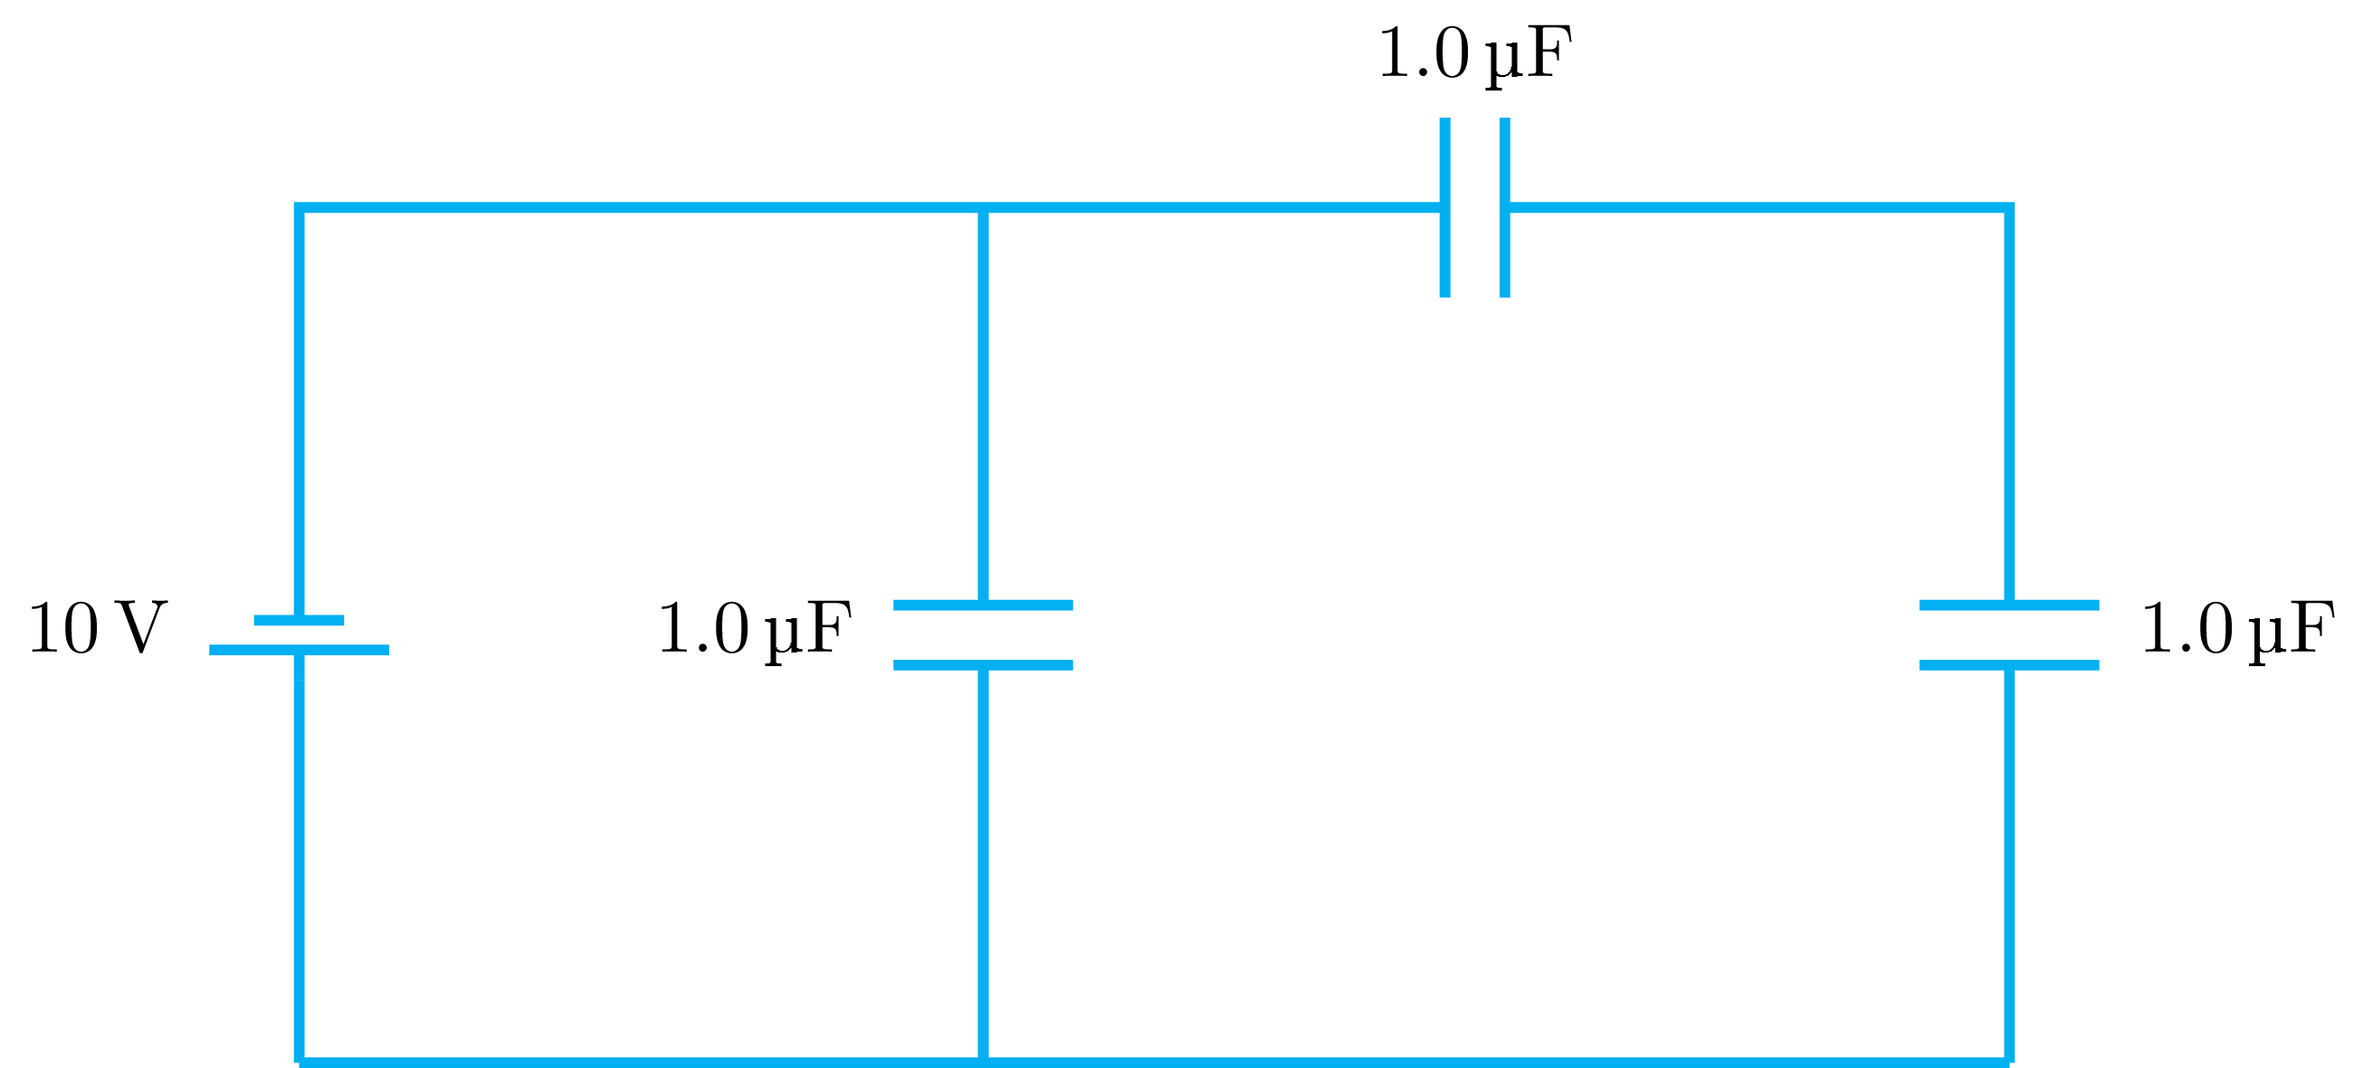
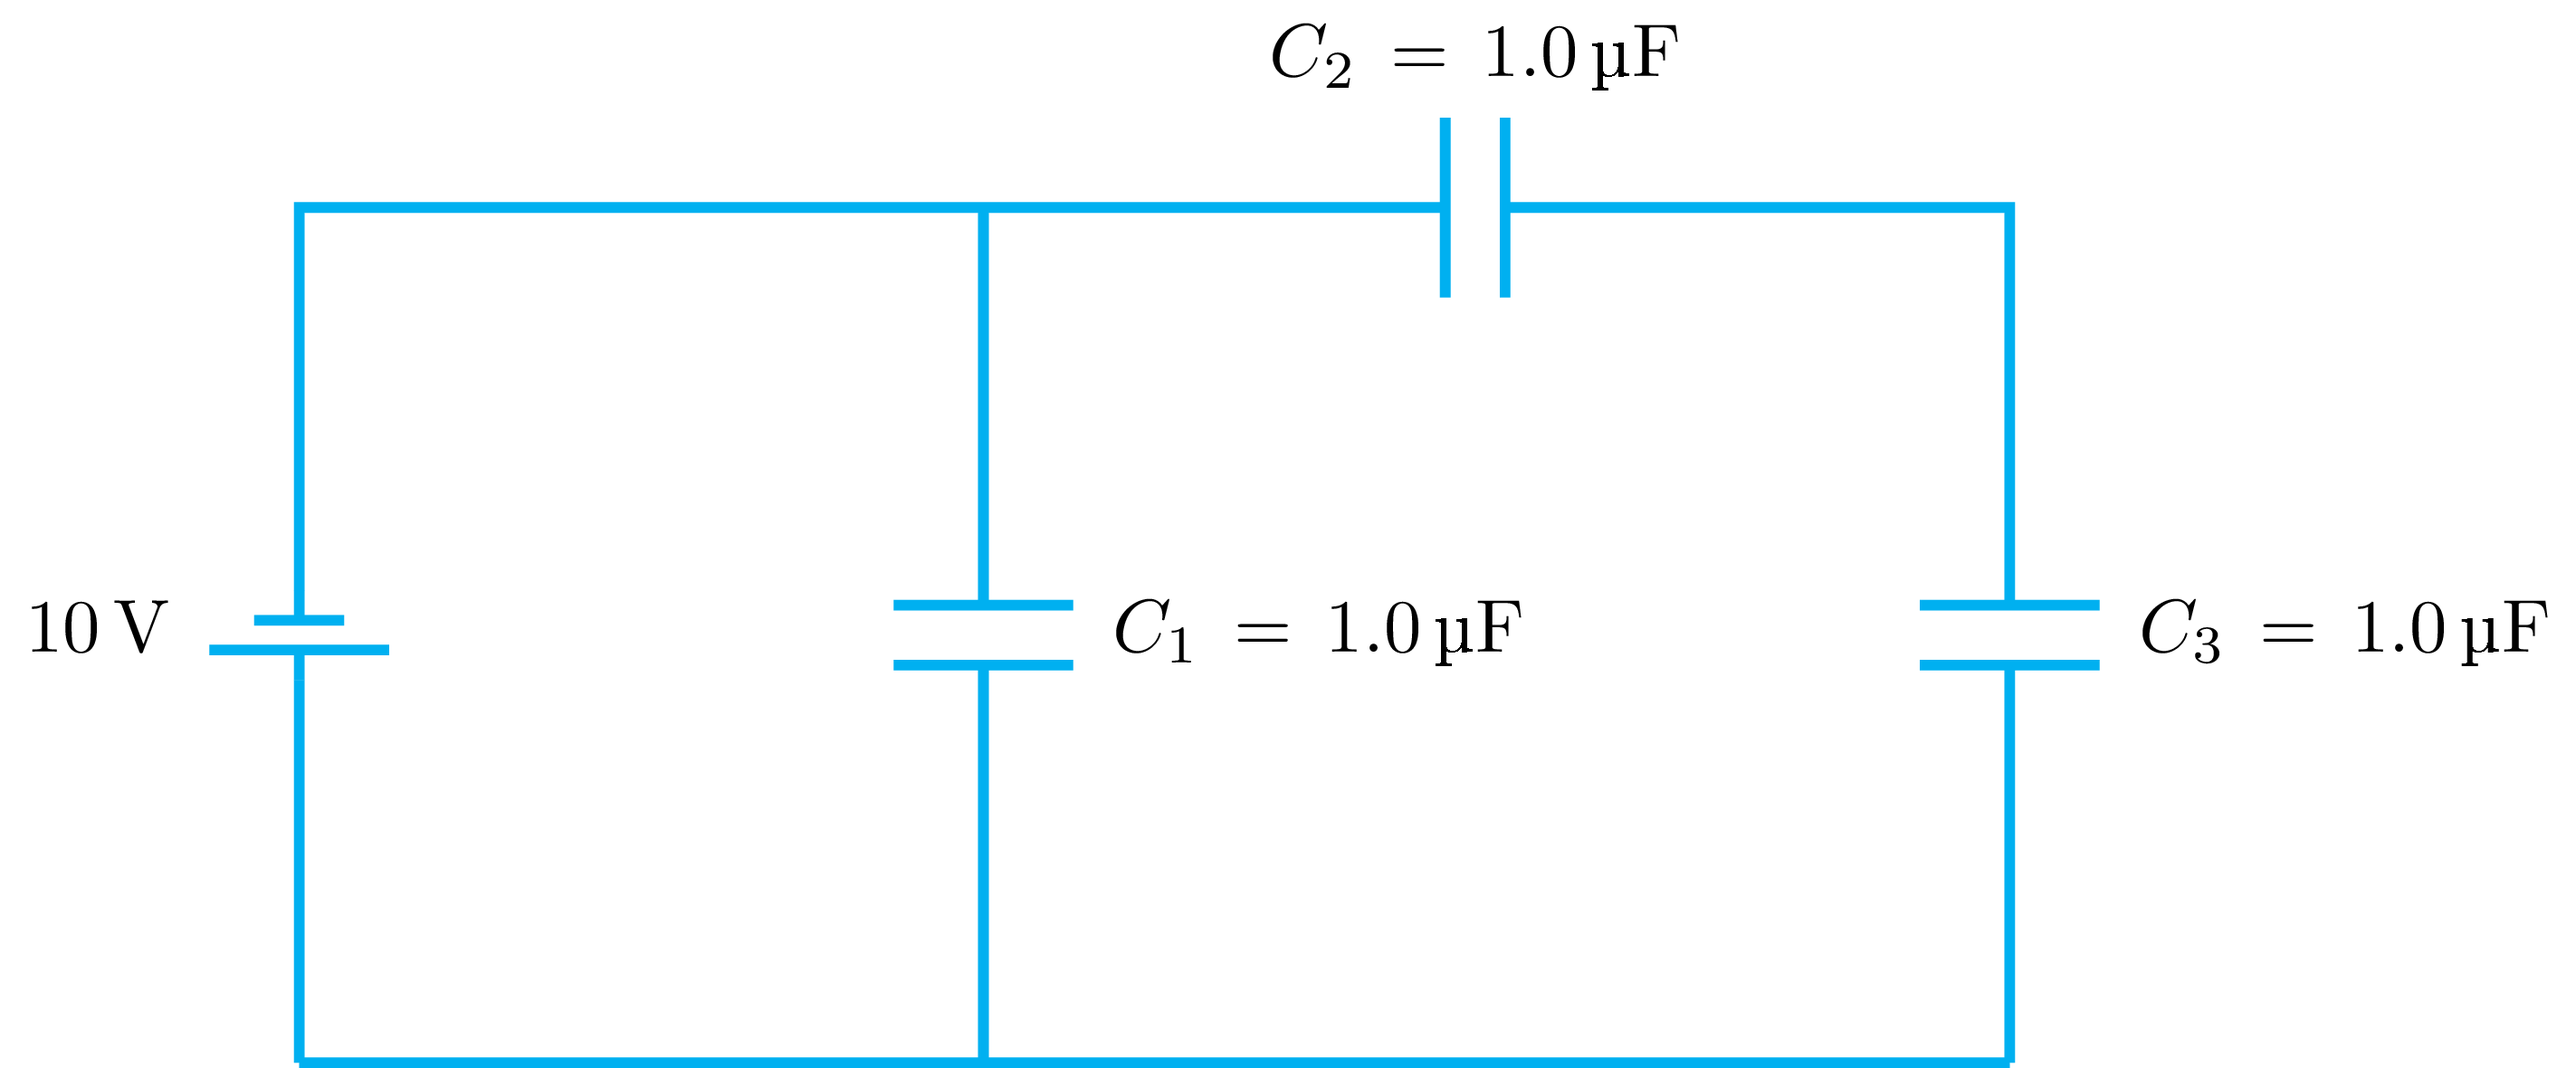
Add variables for the capacitors

diff --git a/quiz-junction-rule.tex b/quiz-junction-rule.tex
@@ -231,10 +231,10 @@
 	(0,0) coordinate (SE) to [battery1,l={\color{black}\SI{10}\volt}]
 	(0,4) coordinate (NE)
 	to [short] (3,4)
-	to [C,l={\color{black}\SI{1.0}{\micro\farad}}] (8,4) coordinate (NW)
-	to [C,l={\color{black}\SI{1.0}{\micro\farad}}] (NW |- SE) coordinate (SW)
+	to [C,l=${\color{black}C_2\,=\,\SI{1.0}{\micro\farad}}$] (8,4) coordinate (NW)
+	to [C,l=${\color{black}C_3\,=\,\SI{1.0}{\micro\farad}}$] (NW |- SE) coordinate (SW)
 	to [short] (SE)
-	(3.2,0) coordinate (SM) to [C,l={\color{black}\SI{1.0}{\micro\farad}}]
+	(3.2,0) coordinate (SM) to [C,l_=${\color{black}C_1\,=\,\SI{1.0}{\micro\farad}}$]
 		(3.2,4) coordinate (NM);
 \end{circuitikz}
 
